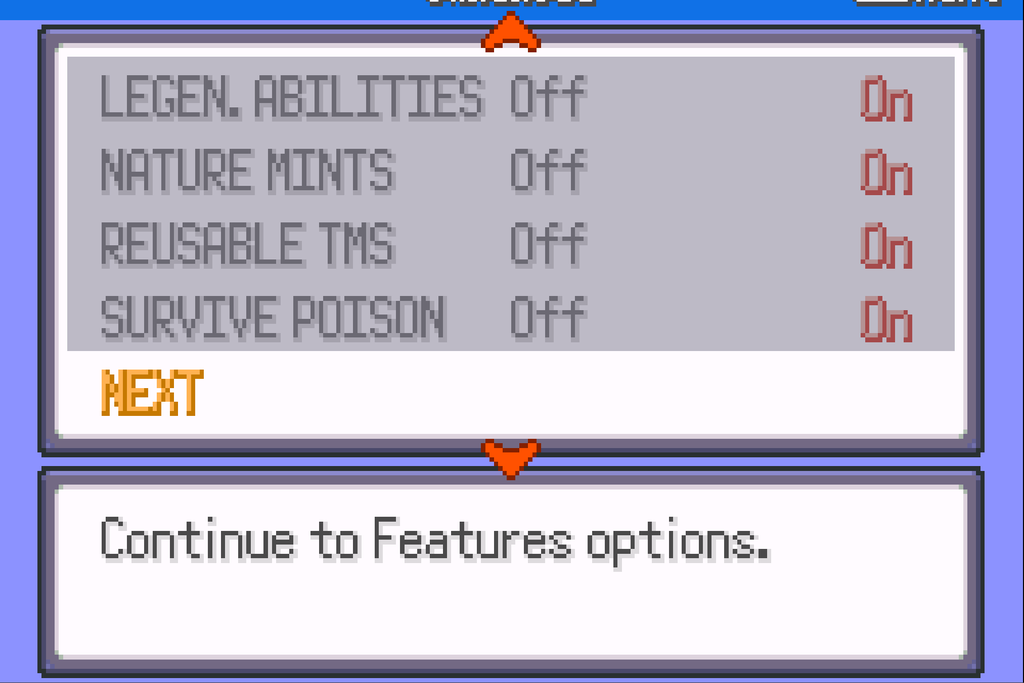
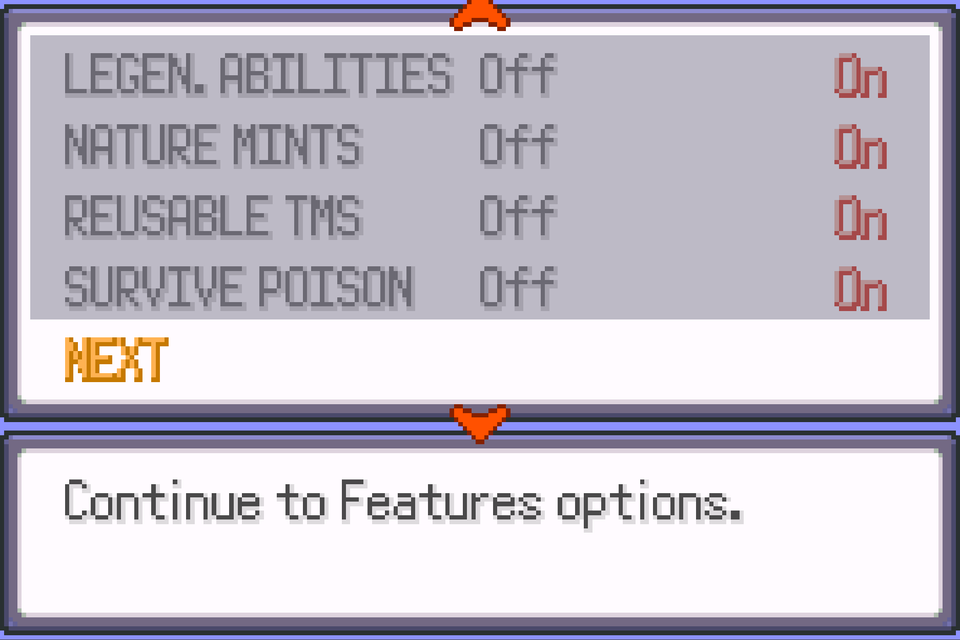
Fix stretched Get Started screenshots from Afterplay crops.
Trim letterboxing and rescale to true GBA 3:2 so the Emerald Modern walkthrough no longer looks horizontally warped.

diff --git a/src/components/GameModeSettingsGuide.tsx b/src/components/GameModeSettingsGuide.tsx
@@ -151,8 +151,8 @@ export function GameModeSettingsGuide() {
                   <Image
                     src={shot.src}
                     alt={shot.alt}
-                    width={1024}
-                    height={683}
+                    width={960}
+                    height={640}
                     className="h-auto w-full"
                     sizes="(max-width: 640px) 100vw, 28rem"
                   />
